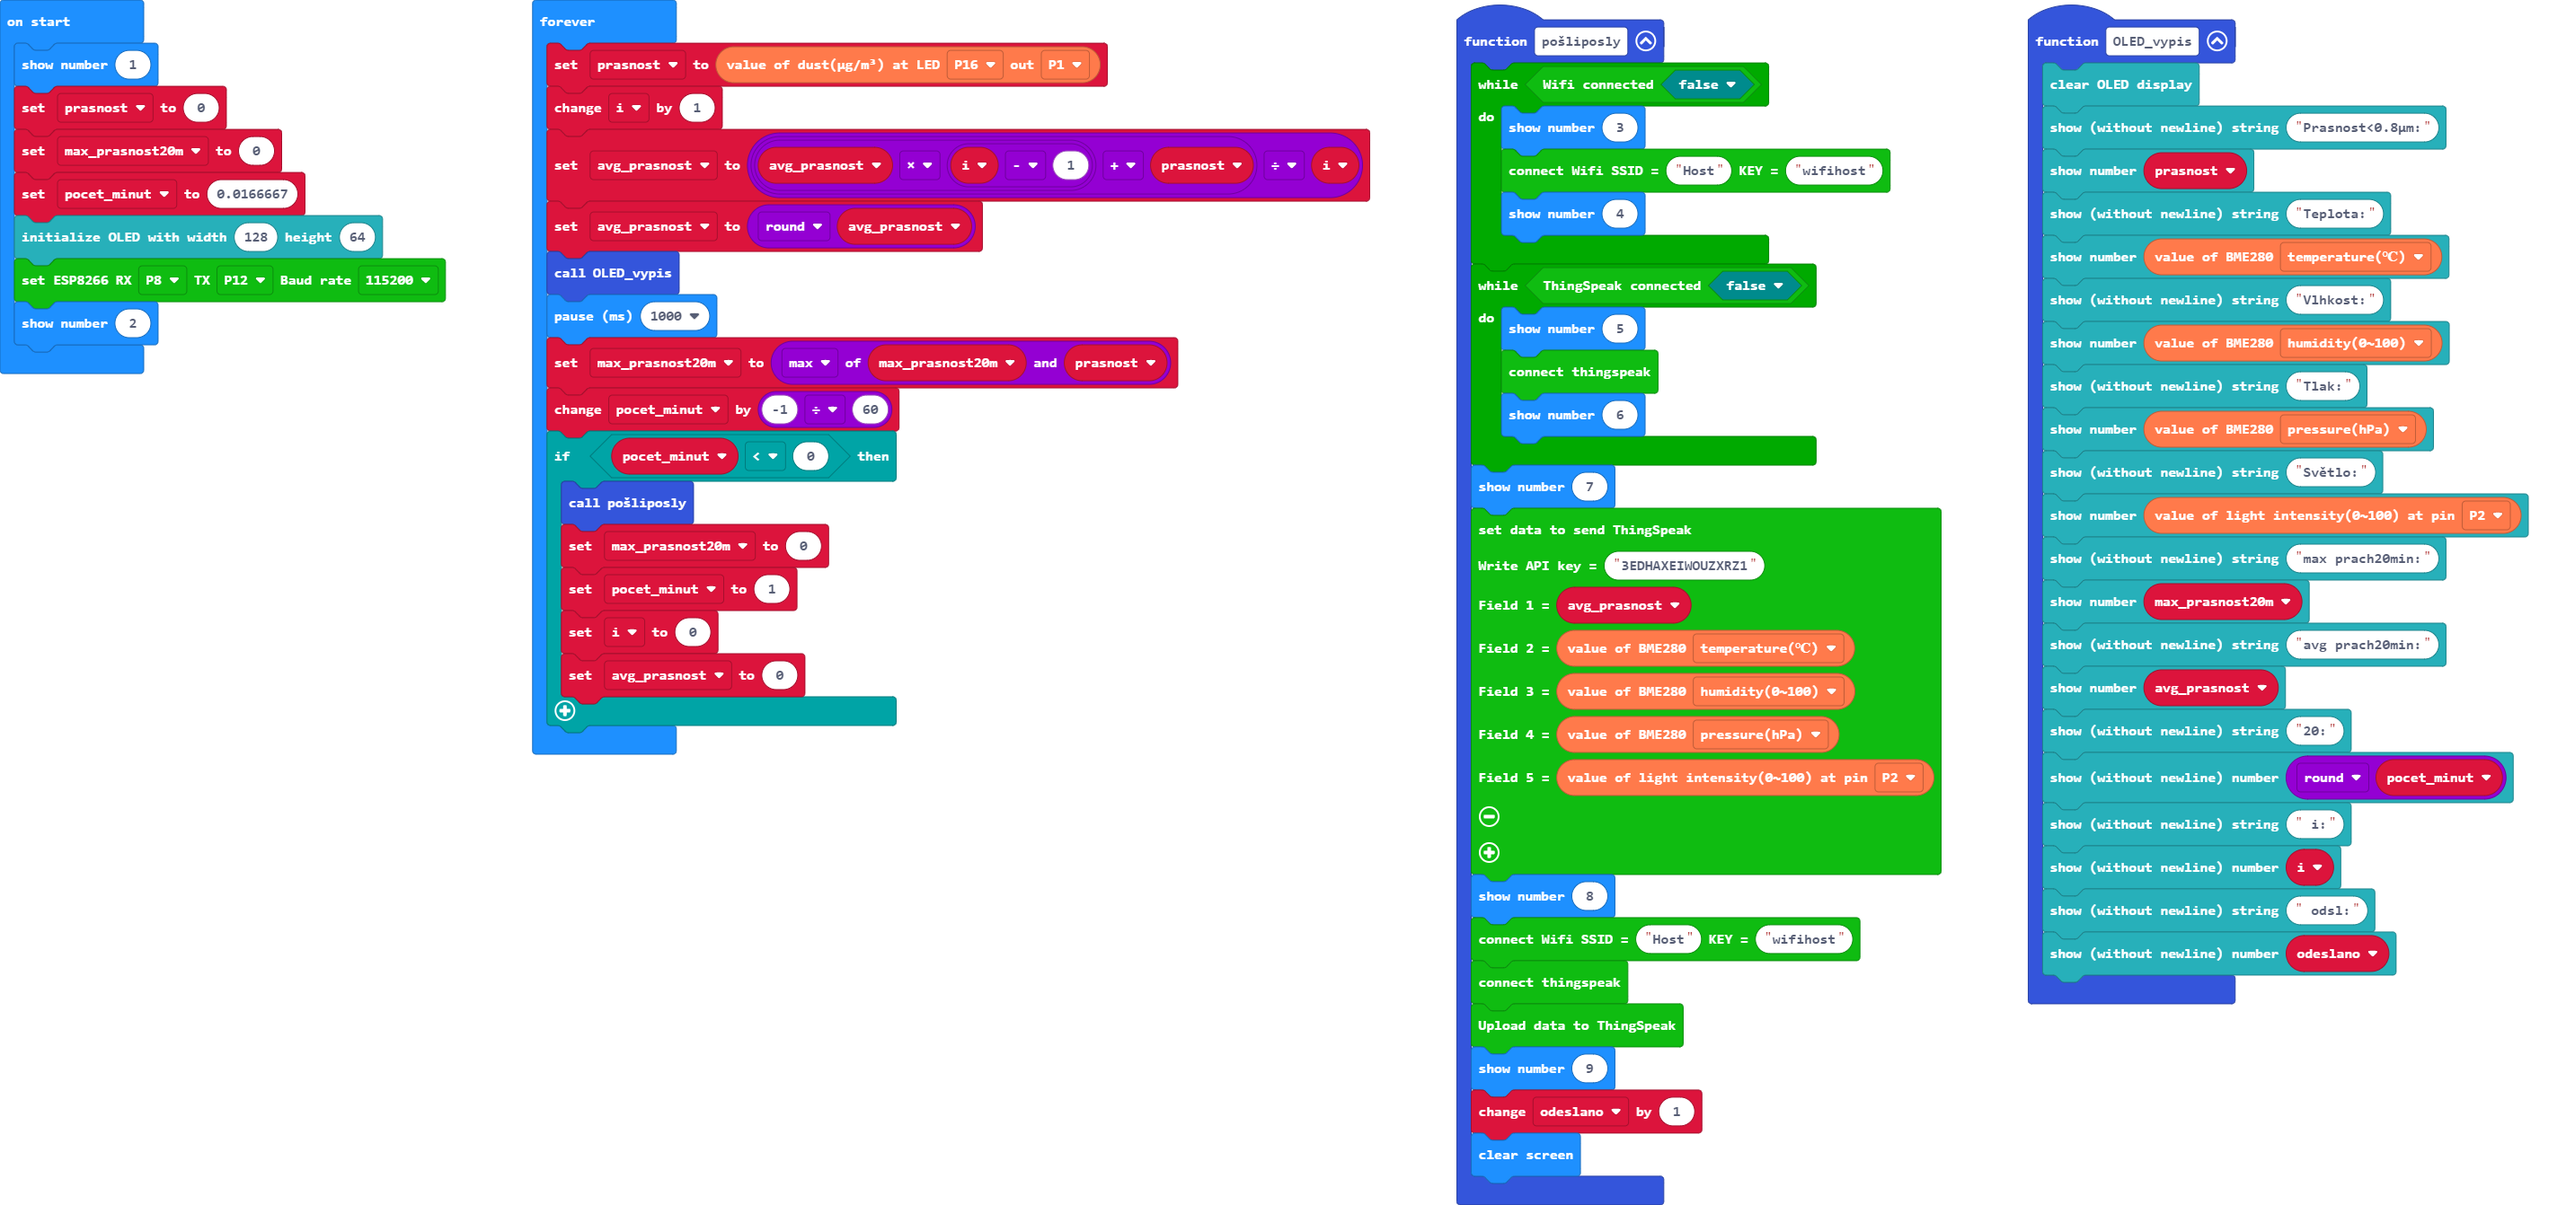
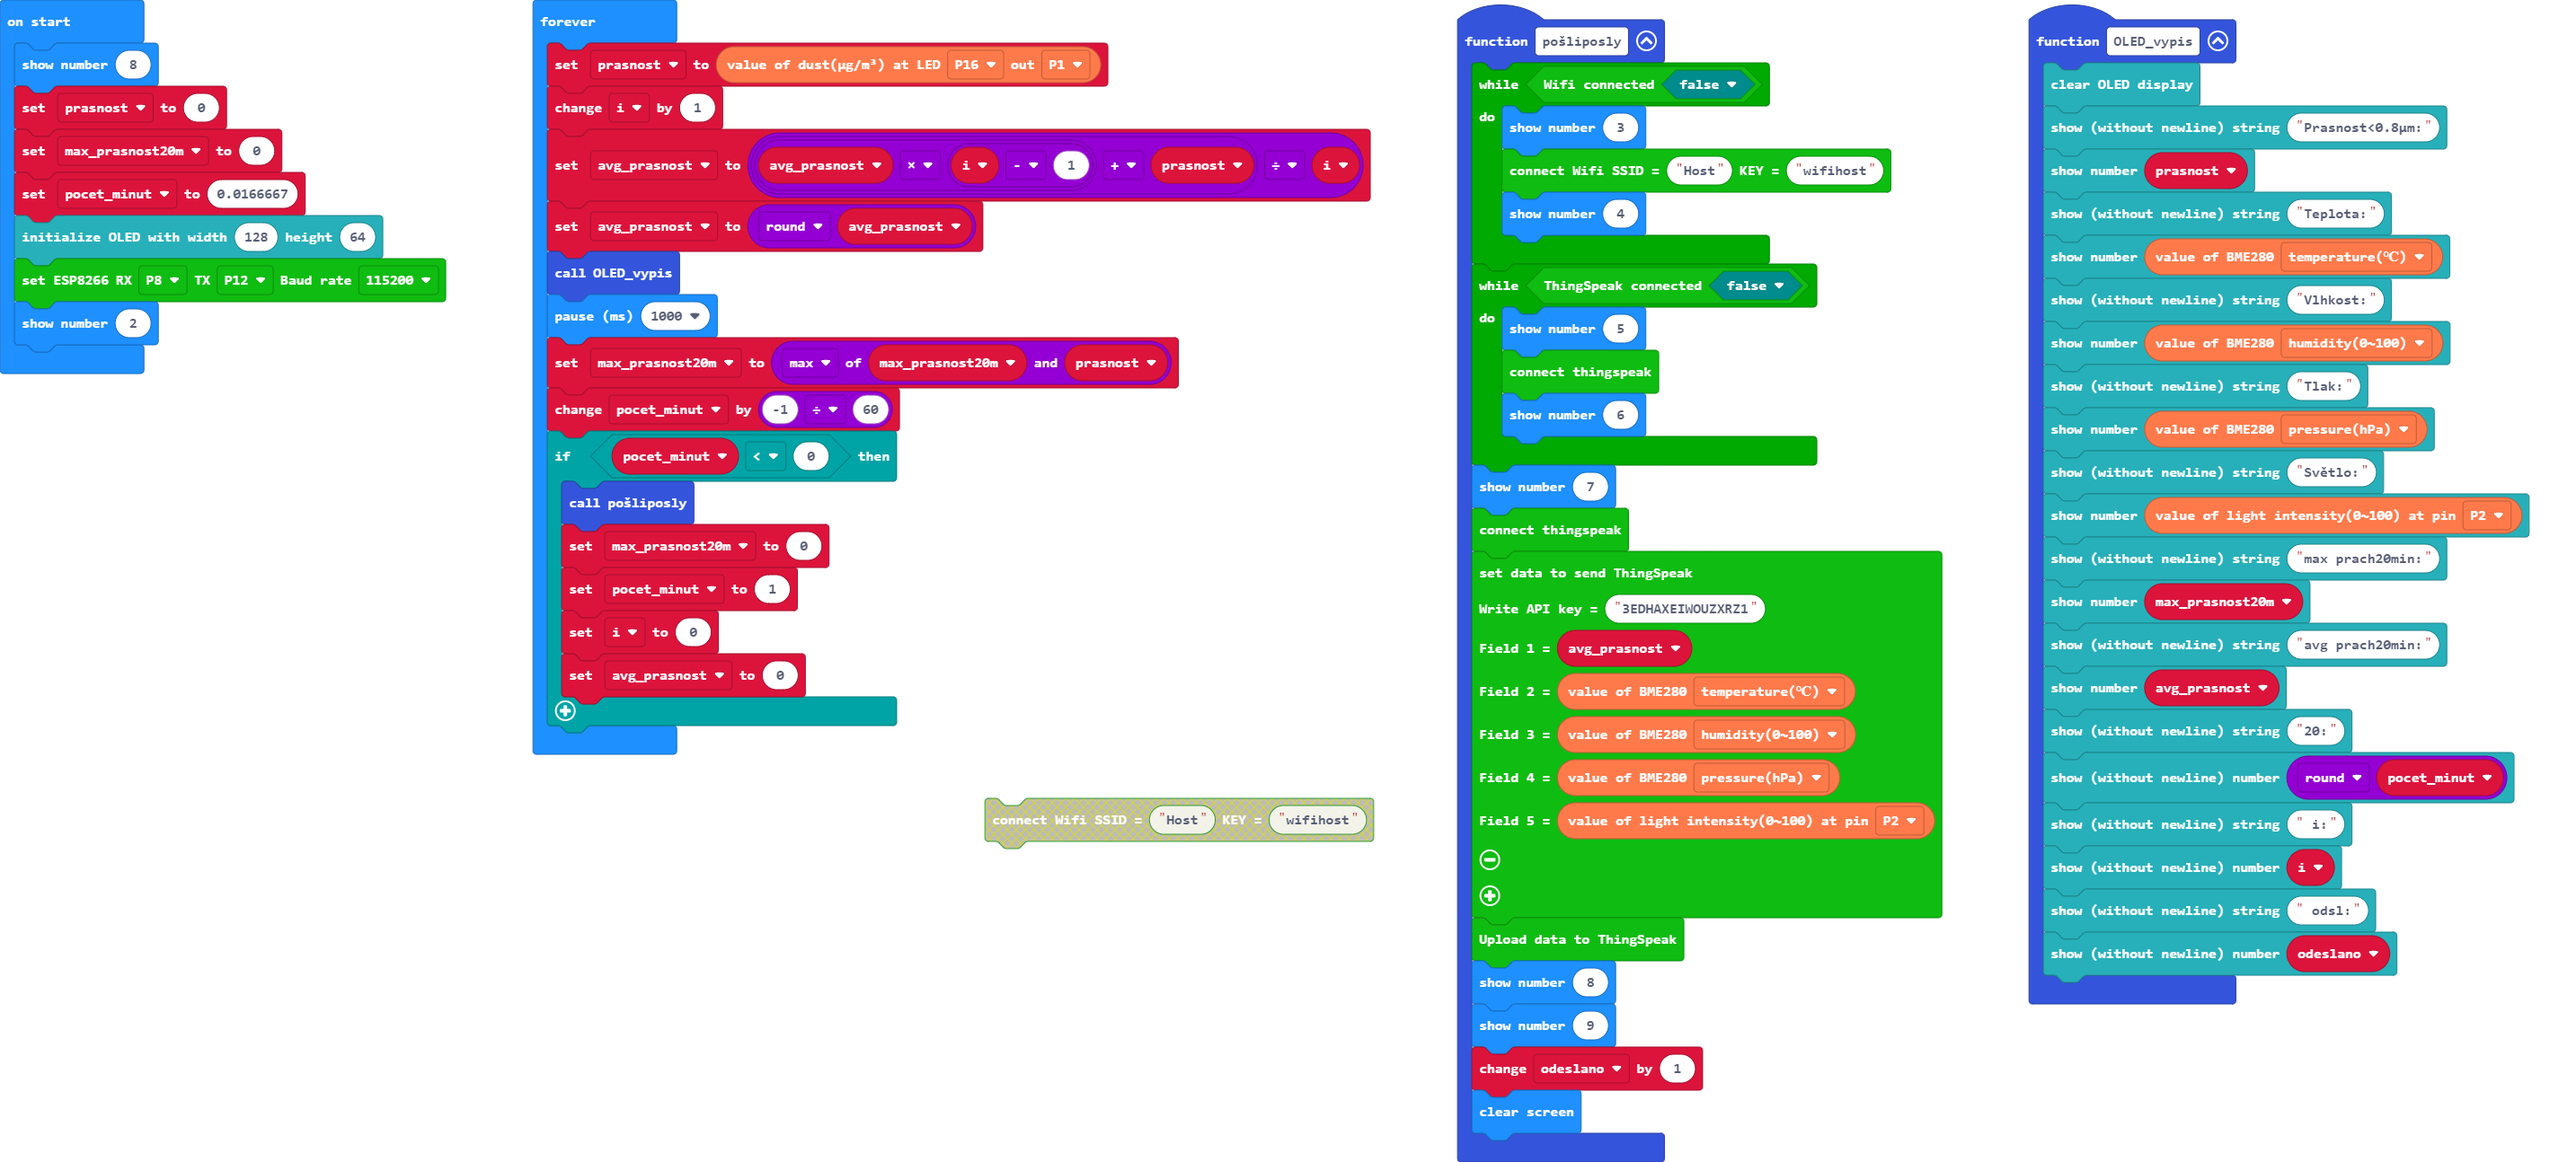
Update main.blocks, main.ts

Changed region(s): [[0.3726, 0.0, 0.9937, 0.9583], [0.1863, 0.0309, 0.5279, 0.6491], [0.0, 0.0309, 0.1863, 0.34]]

diff --git a/main.ts b/main.ts
@@ -10,6 +10,7 @@ function pošliposly () {
         basic.showNumber(6)
     }
     basic.showNumber(7)
+    ESP8266_IoT.connectThingSpeak()
     ESP8266_IoT.setData(
     "3EDHAXEIWOUZXRZ1",
     avg_prasnost,
@@ -18,10 +19,8 @@ function pošliposly () {
     Environment.octopus_BME280(Environment.BME280_state.BME280_pressure),
     Environment.ReadLightIntensity(AnalogPin.P2)
     )
-    basic.showNumber(8)
-    ESP8266_IoT.connectWifi("Host", "wifihost")
-    ESP8266_IoT.connectThingSpeak()
     ESP8266_IoT.uploadData()
+    basic.showNumber(8)
     basic.showNumber(9)
     odeslano += 1
     basic.clearScreen()
@@ -55,7 +54,7 @@ let avg_prasnost = 0
 let pocet_minut = 0
 let max_prasnost20m = 0
 let prasnost = 0
-basic.showNumber(1)
+basic.showNumber(8)
 prasnost = 0
 max_prasnost20m = 0
 pocet_minut = 0.0166667
